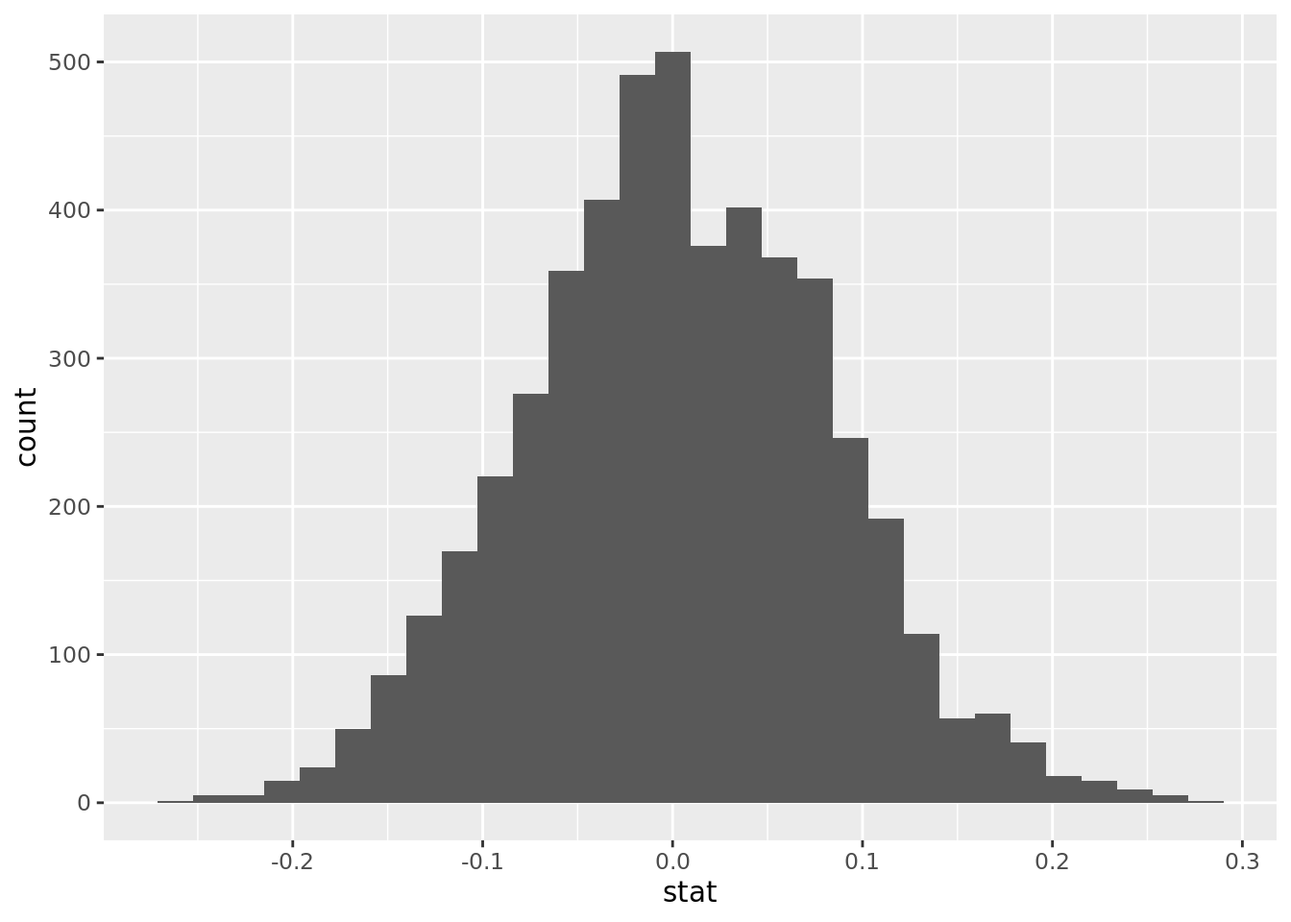
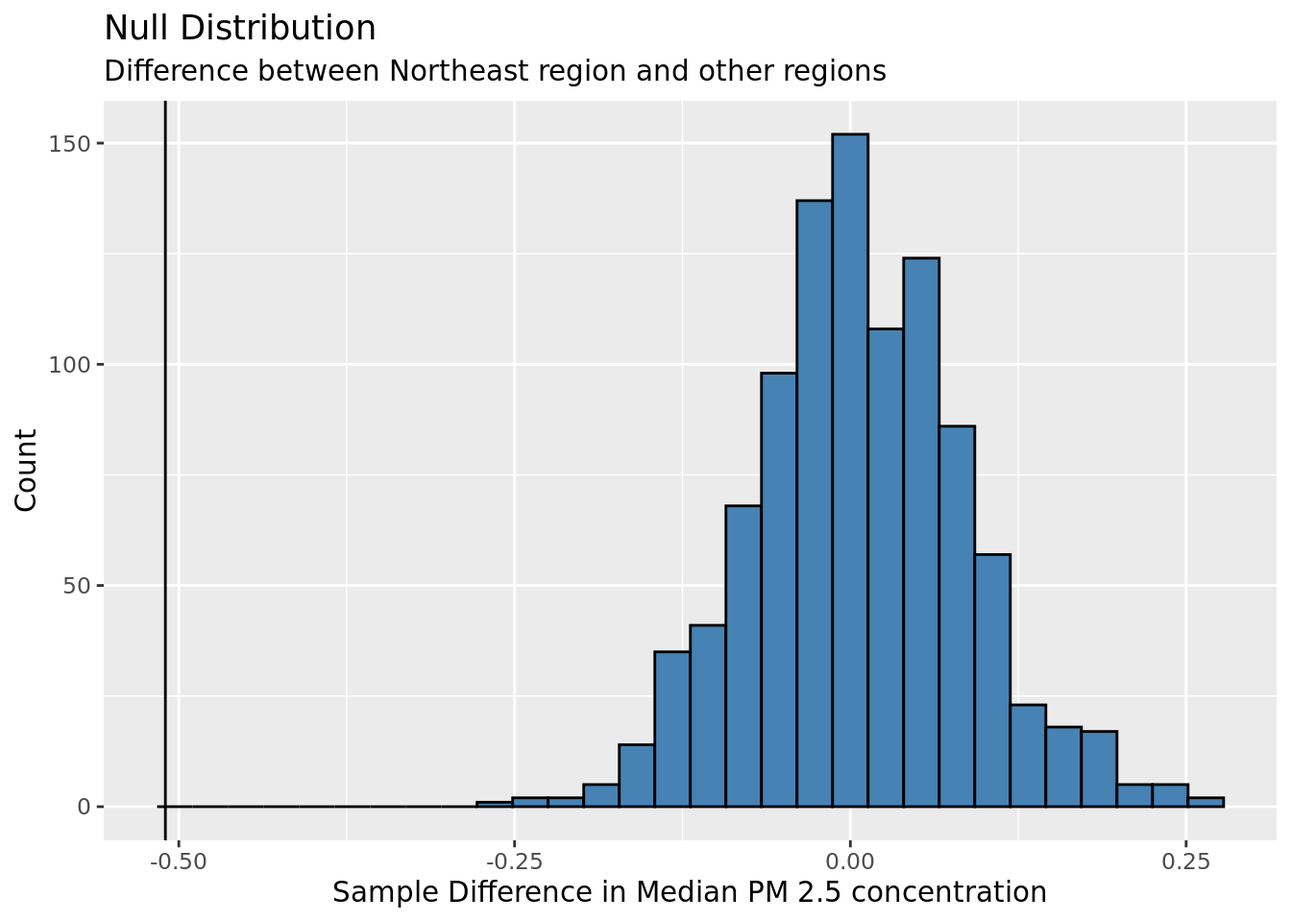
added report title

diff --git a/docs/report.html b/docs/report.html
@@ -7,7 +7,7 @@
 <meta name="viewport" content="width=device-width, initial-scale=1.0, user-scalable=yes">
 
 
-<title>Project title</title>
+<title>U.S. Air Quality by Region</title>
 <style>
 code{white-space: pre-wrap;}
 span.smallcaps{font-variant: small-caps;}
@@ -179,7 +179,7 @@ code span.wa { color: #60a0b0; font-weight: bold; font-style: italic; } /* Warni
 
 <header id="title-block-header" class="quarto-title-block default">
 <div class="quarto-title">
-<h1 class="title">Project title</h1>
+<h1 class="title">U.S. Air Quality by Region</h1>
 <p class="subtitle lead">Report</p>
 </div>
 
@@ -198,7 +198,7 @@ code span.wa { color: #60a0b0; font-weight: bold; font-style: italic; } /* Warni
 <h1>Introduction and Data</h1>
 <p>Our research is motivated by the desire to understand how air pollution differs between the various regions in the United States. We will be investigating the research question of how do air pollution levels differ between states from the West, Southwest, Midwest, Southeast, and Northeast as defined by the National Geographic Society of the mainland United States from the years 2008-2011?</p>
 <p>In order to achieve our goal, we will be performing statistical analysis on the annual average ambient concentrations of PM 2.5 in micrograms per cubic meter, based on seasonal averages and daily measurement (monitor and modeled data) in the air pollution data set. PM 2.5 refers to particles in the air that are 2.5 microns (0.001 mm) or less in width. Because particles in the PM 2.5 size range can travel through the respiratory tract and reach the lungs, they can cause short and long term health problems. As such, PM 2.5 concentration is commonly used as a measurement for air quality and air pollution.</p>
-<p>In analyzing a separate dataset about counties, we formed our hypotheses based on statistics such as the number of metropolitan areas per region and the number of firms per region. This county data was prepared by the USDA, Economic Research Service, and provides over 100 statistics about counties across the US from the year 2000 onwards. These calculations are presented in the beginning of our methodology, in which we found that compared to other regions, the Northeast had the highest percentage of counties marked as metropolitan in 2013 at 4about 60% and the most average firms per county in 2007 at 23,962. Due to these reasons, we hypothesize that the Northeast will have the most air pollution.</p>
+<p>In analyzing a separate dataset about counties, we formed our hypotheses based on statistics such as the number of metropolitan areas per region and the number of firms per region. This county data was prepared by the USDA, Economic Research Service, and provides over 100 statistics about counties across the US from the year 2000 onwards. These calculations are presented in the beginning of our methodology, in which we found that compared to other regions, the Northeast had the highest percentage of counties marked as metropolitan in 2013 at about 60% and the greatest median firms per county in 2007 at 23,962. Due to these reasons, we hypothesize that the Northeast will have the most air pollution.</p>
 <p>The air pollution data set is obtained from the Center for Disease Control (CDC). The data was originally collected by the Environmental Health Tracking Network. This data provides values about air pollution collected from Air Quality Systems (AQS) from 4,000 monitoring stations across the United States. It is also important to note that the data was collected in a completely ethical manner as regulated by CDC guidelines.</p>
 </section>
 <section id="methodology" class="level1">
@@ -231,7 +231,7 @@ code span.wa { color: #60a0b0; font-weight: bold; font-style: italic; } /* Warni
 ✖ dplyr::lag()      masks stats::lag()
 ✖ yardstick::spec() masks readr::spec()
 ✖ recipes::step()   masks stats::step()
-• Search for functions across packages at https://www.tidymodels.org/find/</code></pre>
+• Learn how to get started at https://www.tidymodels.org/start/</code></pre>
 </div>
 </div>
 <p>Below is the analysis we used to support our hypothesis about the region we believe suffers from the most air pollution. We calculated the proportion of metropolitan areas to the number of counties per region in 2013 (a metropolitan county is a county with a population over 50,000). We found that the Northeast had the highest proportion of counties identified as metropolitan at ~60%.</p>
@@ -291,16 +291,17 @@ dbl (184): fips, pop2000, pop2010, pop2011, pop2012, pop2013, pop2014, pop20...
 <div class="sourceCode cell-code" id="cb9"><pre class="sourceCode r code-with-copy"><code class="sourceCode r"><span id="cb9-1"><a href="#cb9-1" aria-hidden="true" tabindex="-1"></a>counties <span class="sc">|&gt;</span></span>
 <span id="cb9-2"><a href="#cb9-2" aria-hidden="true" tabindex="-1"></a>  <span class="fu">group_by</span>(Region) <span class="sc">|&gt;</span></span>
 <span id="cb9-3"><a href="#cb9-3" aria-hidden="true" tabindex="-1"></a>  <span class="fu">filter</span>(<span class="sc">!</span><span class="fu">is.na</span>(metro_2013)) <span class="sc">|&gt;</span></span>
-<span id="cb9-4"><a href="#cb9-4" aria-hidden="true" tabindex="-1"></a>  <span class="fu">summarize</span>(<span class="at">p =</span> <span class="fu">sum</span>(metro_2013) <span class="sc">/</span> <span class="fu">n</span>())</span></code><button title="Copy to Clipboard" class="code-copy-button"><i class="bi"></i></button></pre></div>
+<span id="cb9-4"><a href="#cb9-4" aria-hidden="true" tabindex="-1"></a>  <span class="fu">summarize</span>(<span class="at">p =</span> <span class="fu">sum</span>(metro_2013) <span class="sc">/</span> <span class="fu">n</span>()) <span class="sc">|&gt;</span></span>
+<span id="cb9-5"><a href="#cb9-5" aria-hidden="true" tabindex="-1"></a>  <span class="fu">arrange</span>(<span class="sc">-</span>p)</span></code><button title="Copy to Clipboard" class="code-copy-button"><i class="bi"></i></button></pre></div>
 <div class="cell-output cell-output-stdout">
 <pre><code># A tibble: 5 × 2
   Region        p
   &lt;chr&gt;     &lt;dbl&gt;
-1 Midwest   0.287
-2 Northeast 0.599
-3 Southeast 0.451
+1 Northeast 0.599
+2 Southeast 0.451
+3 West      0.317
 4 Southwest 0.303
-5 West      0.317</code></pre>
+5 Midwest   0.287</code></pre>
 </div>
 </div>
 <p>Additionally, to support our hypothesis, we found the median number of county firms per region in 2007 and found that the Northeast had the greatest median firms per county at 8,748, followed by the West, the Southeast, the Southwest, and the Midwest.</p>
@@ -308,11 +309,11 @@ dbl (184): fips, pop2000, pop2010, pop2011, pop2012, pop2013, pop2014, pop20...
 <div class="sourceCode cell-code" id="cb11"><pre class="sourceCode r code-with-copy"><code class="sourceCode r"><span id="cb11-1"><a href="#cb11-1" aria-hidden="true" tabindex="-1"></a>counties <span class="sc">|&gt;</span></span>
 <span id="cb11-2"><a href="#cb11-2" aria-hidden="true" tabindex="-1"></a>  <span class="fu">filter</span>(<span class="sc">!</span><span class="fu">is.na</span>(firms_2007)) <span class="sc">|&gt;</span></span>
 <span id="cb11-3"><a href="#cb11-3" aria-hidden="true" tabindex="-1"></a>  <span class="fu">group_by</span>(Region) <span class="sc">|&gt;</span></span>
-<span id="cb11-4"><a href="#cb11-4" aria-hidden="true" tabindex="-1"></a>  <span class="fu">summarize</span>(<span class="at">avg_firms =</span> <span class="fu">median</span>(firms_2007)) <span class="sc">|&gt;</span></span>
-<span id="cb11-5"><a href="#cb11-5" aria-hidden="true" tabindex="-1"></a>  <span class="fu">arrange</span>(<span class="sc">-</span>avg_firms)</span></code><button title="Copy to Clipboard" class="code-copy-button"><i class="bi"></i></button></pre></div>
+<span id="cb11-4"><a href="#cb11-4" aria-hidden="true" tabindex="-1"></a>  <span class="fu">summarize</span>(<span class="at">med_firms =</span> <span class="fu">median</span>(firms_2007)) <span class="sc">|&gt;</span></span>
+<span id="cb11-5"><a href="#cb11-5" aria-hidden="true" tabindex="-1"></a>  <span class="fu">arrange</span>(<span class="sc">-</span>med_firms)</span></code><button title="Copy to Clipboard" class="code-copy-button"><i class="bi"></i></button></pre></div>
 <div class="cell-output cell-output-stdout">
 <pre><code># A tibble: 5 × 2
-  Region    avg_firms
+  Region    med_firms
   &lt;chr&gt;         &lt;dbl&gt;
 1 Northeast      8748
 2 West           2294
@@ -336,7 +337,7 @@ num (1): Value
 ℹ Specify the column types or set `show_col_types = FALSE` to quiet this message.</code></pre>
 </div>
 </div>
-<p>The <code>air_quality</code> dataset contains several statistics on fine particle concentrations and ozone concentrations on the county level in the United States from 2001 to 2011. Our analysis will focus on the annual average ambient concentrations of PM 2.5 based on seasonal averages and daily measurement, and we will be looking at the data from 2008 to 2011.</p>
+<p>The <code>air_quality</code> dataset contains several statistics on fine particle concentrations and ozone concentrations on the county level in the United States from 2001 to 2011. Our analysis will focus on the annual average ambient concentrations of PM 2.5 based on seasonal averages and daily measurement, and we will be looking at the data from 2008 to 2011. We chose these years because we wanted to get an idea of the most recent air quality measures from the data.</p>
 <div class="cell">
 <div class="sourceCode cell-code" id="cb15"><pre class="sourceCode r code-with-copy"><code class="sourceCode r"><span id="cb15-1"><a href="#cb15-1" aria-hidden="true" tabindex="-1"></a>concentrations <span class="ot">&lt;-</span> air_quality <span class="sc">|&gt;</span></span>
 <span id="cb15-2"><a href="#cb15-2" aria-hidden="true" tabindex="-1"></a>  <span class="fu">filter</span>(MeasureName <span class="sc">==</span> <span class="st">"Annual average ambient concentrations of PM 2.5 in micrograms per cubic meter, based on seasonal averages and daily measurement (monitor and modeled data)"</span>,</span>
@@ -364,15 +365,15 @@ num (1): Value
 <p>For our analysis, we will be using the median annual average PM 2.5 concentration as our summary statistic rather than the mean. Because the distribution is skewed, the median would be more representative of the centre of the data than the mean.</p>
 <div class="cell">
 <div class="sourceCode cell-code" id="cb17"><pre class="sourceCode r code-with-copy"><code class="sourceCode r"><span id="cb17-1"><a href="#cb17-1" aria-hidden="true" tabindex="-1"></a>concentrations <span class="sc">|&gt;</span></span>
-<span id="cb17-2"><a href="#cb17-2" aria-hidden="true" tabindex="-1"></a>  <span class="fu">summarize</span>(<span class="at">mean_avg_concentration =</span> <span class="fu">mean</span>(avg_concentration))</span></code><button title="Copy to Clipboard" class="code-copy-button"><i class="bi"></i></button></pre></div>
+<span id="cb17-2"><a href="#cb17-2" aria-hidden="true" tabindex="-1"></a>  <span class="fu">summarize</span>(<span class="at">med_concentration =</span> <span class="fu">median</span>(avg_concentration))</span></code><button title="Copy to Clipboard" class="code-copy-button"><i class="bi"></i></button></pre></div>
 <div class="cell-output cell-output-stdout">
 <pre><code># A tibble: 1 × 1
-  mean_avg_concentration
-                   &lt;dbl&gt;
-1                   9.64</code></pre>
+  med_concentration
+              &lt;dbl&gt;
+1              9.78</code></pre>
 </div>
 </div>
-<p>The median annual average PM 2.5 concentration is 9.64 micrograms per cubic meter. This is the typical value for a county in the United States from 2008-2011.</p>
+<p>The median annual average PM 2.5 concentration is 9.78 micrograms per cubic meter. This is the typical value for a county in the United States from 2008-2011.</p>
 <p>We are exploring how air quality differs by geographic region as defined by the National Geographic Society. The regions include the Northeast, Southeast, Midwest, Southwest, and West.</p>
 <div class="cell">
 <div class="sourceCode cell-code" id="cb19"><pre class="sourceCode r code-with-copy"><code class="sourceCode r"><span id="cb19-1"><a href="#cb19-1" aria-hidden="true" tabindex="-1"></a>concentrations <span class="ot">&lt;-</span> concentrations <span class="sc">|&gt;</span></span>
@@ -402,17 +403,17 @@ num (1): Value
 <div class="cell">
 <div class="sourceCode cell-code" id="cb21"><pre class="sourceCode r code-with-copy"><code class="sourceCode r"><span id="cb21-1"><a href="#cb21-1" aria-hidden="true" tabindex="-1"></a>concentrations <span class="sc">|&gt;</span></span>
 <span id="cb21-2"><a href="#cb21-2" aria-hidden="true" tabindex="-1"></a>  <span class="fu">group_by</span>(Region) <span class="sc">|&gt;</span></span>
-<span id="cb21-3"><a href="#cb21-3" aria-hidden="true" tabindex="-1"></a>  <span class="fu">summarize</span>(<span class="at">median_concen =</span> <span class="fu">median</span>(avg_concentration)) <span class="sc">|&gt;</span></span>
-<span id="cb21-4"><a href="#cb21-4" aria-hidden="true" tabindex="-1"></a>  <span class="fu">arrange</span>(<span class="sc">-</span>median_concen)</span></code><button title="Copy to Clipboard" class="code-copy-button"><i class="bi"></i></button></pre></div>
+<span id="cb21-3"><a href="#cb21-3" aria-hidden="true" tabindex="-1"></a>  <span class="fu">summarize</span>(<span class="at">med_concentration =</span> <span class="fu">median</span>(avg_concentration)) <span class="sc">|&gt;</span></span>
+<span id="cb21-4"><a href="#cb21-4" aria-hidden="true" tabindex="-1"></a>  <span class="fu">arrange</span>(<span class="sc">-</span>med_concentration)</span></code><button title="Copy to Clipboard" class="code-copy-button"><i class="bi"></i></button></pre></div>
 <div class="cell-output cell-output-stdout">
 <pre><code># A tibble: 5 × 2
-  Region    median_concen
-  &lt;chr&gt;             &lt;dbl&gt;
-1 Southeast         10.6 
-2 Midwest            9.80
-3 Northeast          9.31
-4 Southwest          8.32
-5 West               6.97</code></pre>
+  Region    med_concentration
+  &lt;chr&gt;                 &lt;dbl&gt;
+1 Southeast             10.6 
+2 Midwest                9.80
+3 Northeast              9.31
+4 Southwest              8.32
+5 West                   6.97</code></pre>
 </div>
 </div>
 <p>The Southeast region has the greatest median concentration of PM 2.5 particles (10.6 micrograms per cubic meter), while the West region has the lowest (6.97 micrograms per cubic meter).</p>
@@ -425,7 +426,7 @@ num (1): Value
 <span id="cb23-6"><a href="#cb23-6" aria-hidden="true" tabindex="-1"></a>       <span class="at">caption =</span> <span class="st">"data from 'Air Quality Measures on the National Environmental Health </span><span class="sc">\n</span><span class="st"> Tracking Network' collected by the Environmental Protection Agency (EPA)"</span>,</span>
 <span id="cb23-7"><a href="#cb23-7" aria-hidden="true" tabindex="-1"></a>       <span class="at">title =</span> <span class="st">"County Fine Particle Concentration by Region"</span>)</span></code><button title="Copy to Clipboard" class="code-copy-button"><i class="bi"></i></button></pre></div>
 <div class="cell-output-display">
-<p><img src="report_files/figure-html/unnamed-chunk-11-1.png" class="img-fluid" width="672"></p>
+<p><img src="report_files/figure-html/boxplot-1.png" class="img-fluid" width="672"></p>
 </div>
 </div>
 <p>Looking at the distributions of average PM 2.5 concentration by region, it is evident that there are many counties in the West region with high average PM 2.5 concentrations. In fact, several of the counties with the greatest average PM 2.5 concentrations were from the West region.</p>
@@ -436,30 +437,36 @@ num (1): Value
 <span id="cb24-3"><a href="#cb24-3" aria-hidden="true" tabindex="-1"></a>boot_df <span class="ot">&lt;-</span> concentrations <span class="sc">|&gt;</span></span>
 <span id="cb24-4"><a href="#cb24-4" aria-hidden="true" tabindex="-1"></a>  <span class="fu">filter</span>(Region <span class="sc">==</span> <span class="st">"Northeast"</span>) <span class="sc">|&gt;</span></span>
 <span id="cb24-5"><a href="#cb24-5" aria-hidden="true" tabindex="-1"></a>  <span class="fu">specify</span>(<span class="at">response =</span> avg_concentration) <span class="sc">|&gt;</span></span>
-<span id="cb24-6"><a href="#cb24-6" aria-hidden="true" tabindex="-1"></a>  <span class="fu">generate</span>(<span class="at">reps =</span> <span class="dv">5000</span>, <span class="at">type =</span> <span class="st">"bootstrap"</span>) <span class="sc">|&gt;</span></span>
+<span id="cb24-6"><a href="#cb24-6" aria-hidden="true" tabindex="-1"></a>  <span class="fu">generate</span>(<span class="at">reps =</span> <span class="dv">1000</span>, <span class="at">type =</span> <span class="st">"bootstrap"</span>) <span class="sc">|&gt;</span></span>
 <span id="cb24-7"><a href="#cb24-7" aria-hidden="true" tabindex="-1"></a>  <span class="fu">calculate</span>(<span class="at">stat =</span> <span class="st">"median"</span>)</span>
 <span id="cb24-8"><a href="#cb24-8" aria-hidden="true" tabindex="-1"></a></span>
 <span id="cb24-9"><a href="#cb24-9" aria-hidden="true" tabindex="-1"></a>boot_df <span class="sc">|&gt;</span></span>
 <span id="cb24-10"><a href="#cb24-10" aria-hidden="true" tabindex="-1"></a>  <span class="fu">summarize</span>(<span class="at">lower =</span> <span class="fu">quantile</span>(stat, <span class="fl">0.025</span>),</span>
 <span id="cb24-11"><a href="#cb24-11" aria-hidden="true" tabindex="-1"></a>            <span class="at">upper =</span> <span class="fu">quantile</span>(stat, <span class="fl">0.975</span>))</span></code><button title="Copy to Clipboard" class="code-copy-button"><i class="bi"></i></button></pre></div>
+<div class="cell-output cell-output-stdout">
+<pre><code># A tibble: 1 × 2
+  lower upper
+  &lt;dbl&gt; &lt;dbl&gt;
+1  9.17  9.45</code></pre>
 </div>
-<p>Based on the results above, we are 95% confident that the true median average PM 2.5 concentration in Northeast counties from 2008-2011 is between 9.16 and 9.45 micrograms per cubic meter.</p>
-<p>Our hypothesis is that the Northeast region would have the worst air quality. To test this, we ran a hypothesis test to compare to difference in median PM 2.5 concentration per county among Northeast counties and all other counties. Our null hypothesis is that the true median PM 2.5 concentration for Northeast counties from 2008-2011 is the same as the true median PM 2.5 concentration for all other counties. Our alternative hypothesis is that the true median PM 2.5 concentration for Northeast counties from 2008-2011 is greater than the true median PM 2.5 concentration for all other counties.</p>
+</div>
+<p>Based on the results above, we are 95% confident that the true median average PM 2.5 concentration in Northeast counties from 2008-2011 is between 9.17 and 9.45 micrograms per cubic meter.</p>
+<p>Our hypothesis is that the Northeast region would have the worst air quality. To test this, we ran a hypothesis test to compare to difference in median PM 2.5 concentration per county among Northeast counties and all other counties. Our null hypothesis is that the true median PM 2.5 concentration for Northeast counties from 2008-2011 is the same as the true median PM 2.5 concentration for all other counties. Our alternative hypothesis is that the true median PM 2.5 concentration for Northeast counties from 2008-2011 is greater than the true median PM 2.5 concentration for all other counties. We set our significance level <span class="math inline">\(\alpha\)</span> at 0.05.</p>
 <p><span class="math inline">\(H_o: \mu_n - \mu_a\)</span> = 0</p>
 <p><span class="math inline">\(H_a: \mu_n - \mu_a\)</span> &gt; 0</p>
 <p><span class="math inline">\(\mu_n\)</span>: true median PM 2.5 concentration for Northeast counties from 2008-2011</p>
 <p><span class="math inline">\(\mu_a\)</span>: true median PM 2.5 concentration for all other (non-Northeast) counties from 2008-2011</p>
 <div class="cell">
-<div class="sourceCode cell-code" id="cb25"><pre class="sourceCode r code-with-copy"><code class="sourceCode r"><span id="cb25-1"><a href="#cb25-1" aria-hidden="true" tabindex="-1"></a><span class="fu">set.seed</span>(<span class="dv">123</span>)</span>
-<span id="cb25-2"><a href="#cb25-2" aria-hidden="true" tabindex="-1"></a></span>
-<span id="cb25-3"><a href="#cb25-3" aria-hidden="true" tabindex="-1"></a>concentrations <span class="ot">&lt;-</span> concentrations <span class="sc">|&gt;</span></span>
-<span id="cb25-4"><a href="#cb25-4" aria-hidden="true" tabindex="-1"></a>  <span class="fu">mutate</span>(<span class="at">is_northeast =</span> <span class="fu">if_else</span>(Region <span class="sc">==</span> <span class="st">"Northeast"</span>,</span>
-<span id="cb25-5"><a href="#cb25-5" aria-hidden="true" tabindex="-1"></a>                                <span class="st">"Northeast"</span>,</span>
-<span id="cb25-6"><a href="#cb25-6" aria-hidden="true" tabindex="-1"></a>                                <span class="st">"Other"</span>))</span>
-<span id="cb25-7"><a href="#cb25-7" aria-hidden="true" tabindex="-1"></a></span>
-<span id="cb25-8"><a href="#cb25-8" aria-hidden="true" tabindex="-1"></a>concentrations <span class="sc">|&gt;</span></span>
-<span id="cb25-9"><a href="#cb25-9" aria-hidden="true" tabindex="-1"></a>  <span class="fu">group_by</span>(is_northeast) <span class="sc">|&gt;</span></span>
-<span id="cb25-10"><a href="#cb25-10" aria-hidden="true" tabindex="-1"></a>  <span class="fu">summarize</span>(<span class="at">median_concen =</span> <span class="fu">median</span>(avg_concentration))</span></code><button title="Copy to Clipboard" class="code-copy-button"><i class="bi"></i></button></pre></div>
+<div class="sourceCode cell-code" id="cb26"><pre class="sourceCode r code-with-copy"><code class="sourceCode r"><span id="cb26-1"><a href="#cb26-1" aria-hidden="true" tabindex="-1"></a><span class="fu">set.seed</span>(<span class="dv">123</span>)</span>
+<span id="cb26-2"><a href="#cb26-2" aria-hidden="true" tabindex="-1"></a></span>
+<span id="cb26-3"><a href="#cb26-3" aria-hidden="true" tabindex="-1"></a>concentrations <span class="ot">&lt;-</span> concentrations <span class="sc">|&gt;</span></span>
+<span id="cb26-4"><a href="#cb26-4" aria-hidden="true" tabindex="-1"></a>  <span class="fu">mutate</span>(<span class="at">is_northeast =</span> <span class="fu">if_else</span>(Region <span class="sc">==</span> <span class="st">"Northeast"</span>,</span>
+<span id="cb26-5"><a href="#cb26-5" aria-hidden="true" tabindex="-1"></a>                                <span class="st">"Northeast"</span>,</span>
+<span id="cb26-6"><a href="#cb26-6" aria-hidden="true" tabindex="-1"></a>                                <span class="st">"Other"</span>))</span>
+<span id="cb26-7"><a href="#cb26-7" aria-hidden="true" tabindex="-1"></a></span>
+<span id="cb26-8"><a href="#cb26-8" aria-hidden="true" tabindex="-1"></a>concentrations <span class="sc">|&gt;</span></span>
+<span id="cb26-9"><a href="#cb26-9" aria-hidden="true" tabindex="-1"></a>  <span class="fu">group_by</span>(is_northeast) <span class="sc">|&gt;</span></span>
+<span id="cb26-10"><a href="#cb26-10" aria-hidden="true" tabindex="-1"></a>  <span class="fu">summarize</span>(<span class="at">median_concen =</span> <span class="fu">median</span>(avg_concentration))</span></code><button title="Copy to Clipboard" class="code-copy-button"><i class="bi"></i></button></pre></div>
 <div class="cell-output cell-output-stdout">
 <pre><code># A tibble: 2 × 2
   is_northeast median_concen
@@ -467,24 +474,31 @@ num (1): Value
 1 Northeast             9.31
 2 Other                 9.82</code></pre>
 </div>
-<div class="sourceCode cell-code" id="cb27"><pre class="sourceCode r code-with-copy"><code class="sourceCode r"><span id="cb27-1"><a href="#cb27-1" aria-hidden="true" tabindex="-1"></a>null_dist <span class="ot">&lt;-</span> concentrations <span class="sc">|&gt;</span></span>
-<span id="cb27-2"><a href="#cb27-2" aria-hidden="true" tabindex="-1"></a>  <span class="fu">specify</span>(<span class="at">response =</span> avg_concentration,</span>
-<span id="cb27-3"><a href="#cb27-3" aria-hidden="true" tabindex="-1"></a>          <span class="at">explanatory =</span> is_northeast) <span class="sc">|&gt;</span></span>
-<span id="cb27-4"><a href="#cb27-4" aria-hidden="true" tabindex="-1"></a>  <span class="fu">hypothesize</span>(<span class="at">null =</span> <span class="st">"independence"</span>) <span class="sc">|&gt;</span></span>
-<span id="cb27-5"><a href="#cb27-5" aria-hidden="true" tabindex="-1"></a>  <span class="fu">generate</span>(<span class="at">reps =</span> <span class="dv">5000</span>, <span class="at">type =</span> <span class="st">"permute"</span>) <span class="sc">|&gt;</span></span>
-<span id="cb27-6"><a href="#cb27-6" aria-hidden="true" tabindex="-1"></a>  <span class="fu">calculate</span>(<span class="at">stat =</span> <span class="st">"diff in medians"</span>, <span class="at">order =</span> <span class="fu">c</span>(<span class="st">"Northeast"</span>, <span class="st">"Other"</span>))</span>
-<span id="cb27-7"><a href="#cb27-7" aria-hidden="true" tabindex="-1"></a></span>
-<span id="cb27-8"><a href="#cb27-8" aria-hidden="true" tabindex="-1"></a>null_dist <span class="sc">|&gt;</span></span>
-<span id="cb27-9"><a href="#cb27-9" aria-hidden="true" tabindex="-1"></a>  <span class="fu">ggplot</span>(<span class="fu">aes</span>(<span class="at">x =</span> stat)) <span class="sc">+</span></span>
-<span id="cb27-10"><a href="#cb27-10" aria-hidden="true" tabindex="-1"></a>  <span class="fu">geom_histogram</span>()</span></code><button title="Copy to Clipboard" class="code-copy-button"><i class="bi"></i></button></pre></div>
+<div class="sourceCode cell-code" id="cb28"><pre class="sourceCode r code-with-copy"><code class="sourceCode r"><span id="cb28-1"><a href="#cb28-1" aria-hidden="true" tabindex="-1"></a>point_est <span class="ot">=</span> <span class="sc">-</span><span class="fl">0.51</span></span>
+<span id="cb28-2"><a href="#cb28-2" aria-hidden="true" tabindex="-1"></a></span>
+<span id="cb28-3"><a href="#cb28-3" aria-hidden="true" tabindex="-1"></a>null_dist <span class="ot">&lt;-</span> concentrations <span class="sc">|&gt;</span></span>
+<span id="cb28-4"><a href="#cb28-4" aria-hidden="true" tabindex="-1"></a>  <span class="fu">specify</span>(<span class="at">response =</span> avg_concentration,</span>
+<span id="cb28-5"><a href="#cb28-5" aria-hidden="true" tabindex="-1"></a>          <span class="at">explanatory =</span> is_northeast) <span class="sc">|&gt;</span></span>
+<span id="cb28-6"><a href="#cb28-6" aria-hidden="true" tabindex="-1"></a>  <span class="fu">hypothesize</span>(<span class="at">null =</span> <span class="st">"independence"</span>) <span class="sc">|&gt;</span></span>
+<span id="cb28-7"><a href="#cb28-7" aria-hidden="true" tabindex="-1"></a>  <span class="fu">generate</span>(<span class="at">reps =</span> <span class="dv">1000</span>, <span class="at">type =</span> <span class="st">"permute"</span>) <span class="sc">|&gt;</span></span>
+<span id="cb28-8"><a href="#cb28-8" aria-hidden="true" tabindex="-1"></a>  <span class="fu">calculate</span>(<span class="at">stat =</span> <span class="st">"diff in medians"</span>, <span class="at">order =</span> <span class="fu">c</span>(<span class="st">"Northeast"</span>, <span class="st">"Other"</span>))</span>
+<span id="cb28-9"><a href="#cb28-9" aria-hidden="true" tabindex="-1"></a></span>
+<span id="cb28-10"><a href="#cb28-10" aria-hidden="true" tabindex="-1"></a>null_dist <span class="sc">|&gt;</span></span>
+<span id="cb28-11"><a href="#cb28-11" aria-hidden="true" tabindex="-1"></a>  <span class="fu">ggplot</span>(<span class="fu">aes</span>(<span class="at">x =</span> stat)) <span class="sc">+</span></span>
+<span id="cb28-12"><a href="#cb28-12" aria-hidden="true" tabindex="-1"></a>  <span class="fu">geom_histogram</span>(<span class="at">fill =</span> <span class="st">'steelblue'</span>, <span class="at">color =</span> <span class="st">'black'</span>) <span class="sc">+</span></span>
+<span id="cb28-13"><a href="#cb28-13" aria-hidden="true" tabindex="-1"></a>  <span class="fu">geom_vline</span>(<span class="at">xintercept =</span> point_est) <span class="sc">+</span></span>
+<span id="cb28-14"><a href="#cb28-14" aria-hidden="true" tabindex="-1"></a>  <span class="fu">labs</span>(<span class="at">x =</span> <span class="st">"Sample Difference in Median PM 2.5 concentration"</span>,</span>
+<span id="cb28-15"><a href="#cb28-15" aria-hidden="true" tabindex="-1"></a>       <span class="at">y =</span> <span class="st">"Count"</span>,</span>
+<span id="cb28-16"><a href="#cb28-16" aria-hidden="true" tabindex="-1"></a>       <span class="at">title =</span> <span class="st">"Null Distribution"</span>,</span>
+<span id="cb28-17"><a href="#cb28-17" aria-hidden="true" tabindex="-1"></a>       <span class="at">subtitle =</span> <span class="st">"Difference between Northeast region and other regions"</span>)</span></code><button title="Copy to Clipboard" class="code-copy-button"><i class="bi"></i></button></pre></div>
 <div class="cell-output cell-output-stderr">
 <pre><code>`stat_bin()` using `bins = 30`. Pick better value with `binwidth`.</code></pre>
 </div>
 <div class="cell-output-display">
 <p><img src="report_files/figure-html/hypoth-test-1.png" class="img-fluid" width="672"></p>
 </div>
-<div class="sourceCode cell-code" id="cb29"><pre class="sourceCode r code-with-copy"><code class="sourceCode r"><span id="cb29-1"><a href="#cb29-1" aria-hidden="true" tabindex="-1"></a>null_dist <span class="sc">|&gt;</span></span>
-<span id="cb29-2"><a href="#cb29-2" aria-hidden="true" tabindex="-1"></a>  <span class="fu">get_p_value</span>(<span class="at">obs_stat =</span> <span class="sc">-</span><span class="fl">0.51</span>, <span class="at">direction =</span> <span class="st">"greater"</span>)</span></code><button title="Copy to Clipboard" class="code-copy-button"><i class="bi"></i></button></pre></div>
+<div class="sourceCode cell-code" id="cb30"><pre class="sourceCode r code-with-copy"><code class="sourceCode r"><span id="cb30-1"><a href="#cb30-1" aria-hidden="true" tabindex="-1"></a>null_dist <span class="sc">|&gt;</span></span>
+<span id="cb30-2"><a href="#cb30-2" aria-hidden="true" tabindex="-1"></a>  <span class="fu">get_p_value</span>(<span class="at">obs_stat =</span> point_est, <span class="at">direction =</span> <span class="st">"greater"</span>)</span></code><button title="Copy to Clipboard" class="code-copy-button"><i class="bi"></i></button></pre></div>
 <div class="cell-output cell-output-stdout">
 <pre><code># A tibble: 1 × 1
   p_value
@@ -492,13 +506,13 @@ num (1): Value
 1       1</code></pre>
 </div>
 </div>
-<p>We got a p-value of 1, meaning we fail to reject our null hypothesis. The incredibly high p-value signifies a surprising trend: the Northeast counties actually have a lower median PM 2.5 concentration than other U.S. counties from 2008-2011, which is unexpected since the Northeast tends to have more firms and a high proportion metropolitan areas.</p>
+<p>Even though the point estimate is far away from the null distribution, we hypothesized the Northeast counties would have a higher median concentration of PM 2.5 particles, so the point estimate is far off in the wrong direction! Therefore, we got a p-value greater than 0.999, meaning we fail to reject our null hypothesis. The incredibly high p-value signifies a surprising trend: the Northeast counties actually have a lower median PM 2.5 concentration than other U.S. counties from 2008-2011, which is unexpected since the Northeast tends to have more firms and a high proportion metropolitan areas.</p>
 </section>
 <section id="results" class="level1">
 <h1>Results</h1>
-<p>The data analysis and visualization techniques we used included creating a histogram was created to make meaning of the mean annual average concentration of fine particle concentration calculated to ensure the mean calculated is significant for most data points which is true as the data peaks near the 9.64 mean value calculated. We also created a counties by region graph to understand the statistical significance of the concentration data calculated for each region. Since the number of counties is the greatest for the Southeast and the Midwest region, the results of these two regions resembles have the highest chance of resembling closest to reality making them more statistically significant than the regions Southwest, West and Northeast.</p>
-<p>Our data analysis allowed us to find that overall the median annual average PM 2.5 concentration was 9.64 micrograms per cubic meter. Then, the median annual average PM 2.5 concentration was calculated for each region. Southeast had the largest median annual average PM 2.5 concentration with a value of 10.6 micrograms per cubic meter followed by the Midwest with 9.6 micrograms per cubic meter, then Northeast with 9.3 micrograms per cubic meter, Southwest with 8.3 micrograms per cubic meter, and West with 7.0 micrograms per cubic meter. A visualization of a histogram visually displays how the median differs between the regions. It is important to note that several of the regions have outliers especially the West region.</p>
-<p>Based on the visualizations and summary statistics, we came to the conclusion that the Southeast had the highest median annual average PM 2.5 concentration while the West had the lowest median annual average PM 2.5 concentration compared to the five main regions within the United States.</p>
+<p>We used the data analysis and visualization techniques to make meaning of the median annual average concentration of fine particle concentration. We created a counties by region graph to understand the statistical significance of the concentration data calculated for each region. Since the number of counties is the greatest for the Southeast and the Midwest region, the results of these two regions resembles have the highest chance of resembling closest to reality making them more statistically significant than the regions Southwest, West and Northeast.</p>
+<p>Our data analysis allowed us to find that overall the median annual average PM 2.5 concentration was 9.78 micrograms per cubic meter for all U.S. counties from 2008-2011. Then, the median annual average PM 2.5 concentration was calculated for each region. Southeast had the largest median annual average PM 2.5 concentration with a value of 10.6 micrograms per cubic meter followed by the Midwest with 9.6 micrograms per cubic meter, then Northeast with 9.3 micrograms per cubic meter, Southwest with 8.3 micrograms per cubic meter, and West with 7.0 micrograms per cubic meter. It is important to note that several of the regions have outliers especially the West region.</p>
+<p>Based on the visualizations and summary statistics, we came to the conclusion that the Southeast had the highest median annual average PM 2.5 concentration while the West had the lowest median annual average PM 2.5 concentration compared to the five main regions within the United States. In addition, we were surprised to find that the Northeast region, the region with the most highest proportion of metropolitan areas and the most business activity, actually had a lower median PM 2.5 concentration than all other counties. Although we expected the Northeast to have the worst air quality, it turns out it has a lower typical fine particle concentration than other regions.</p>
 </section>
 <section id="bibliography" class="level1">
 <h1>Bibliography</h1>
